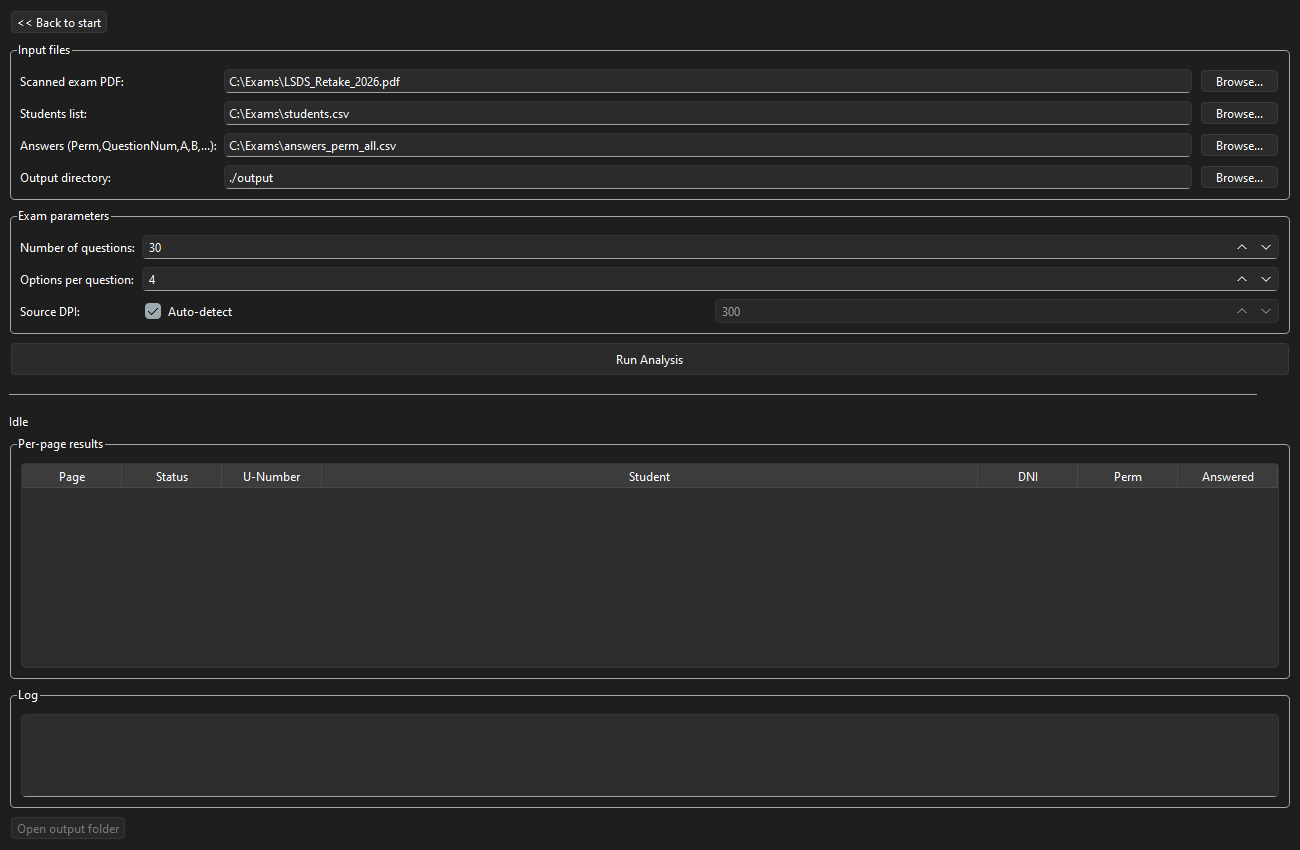
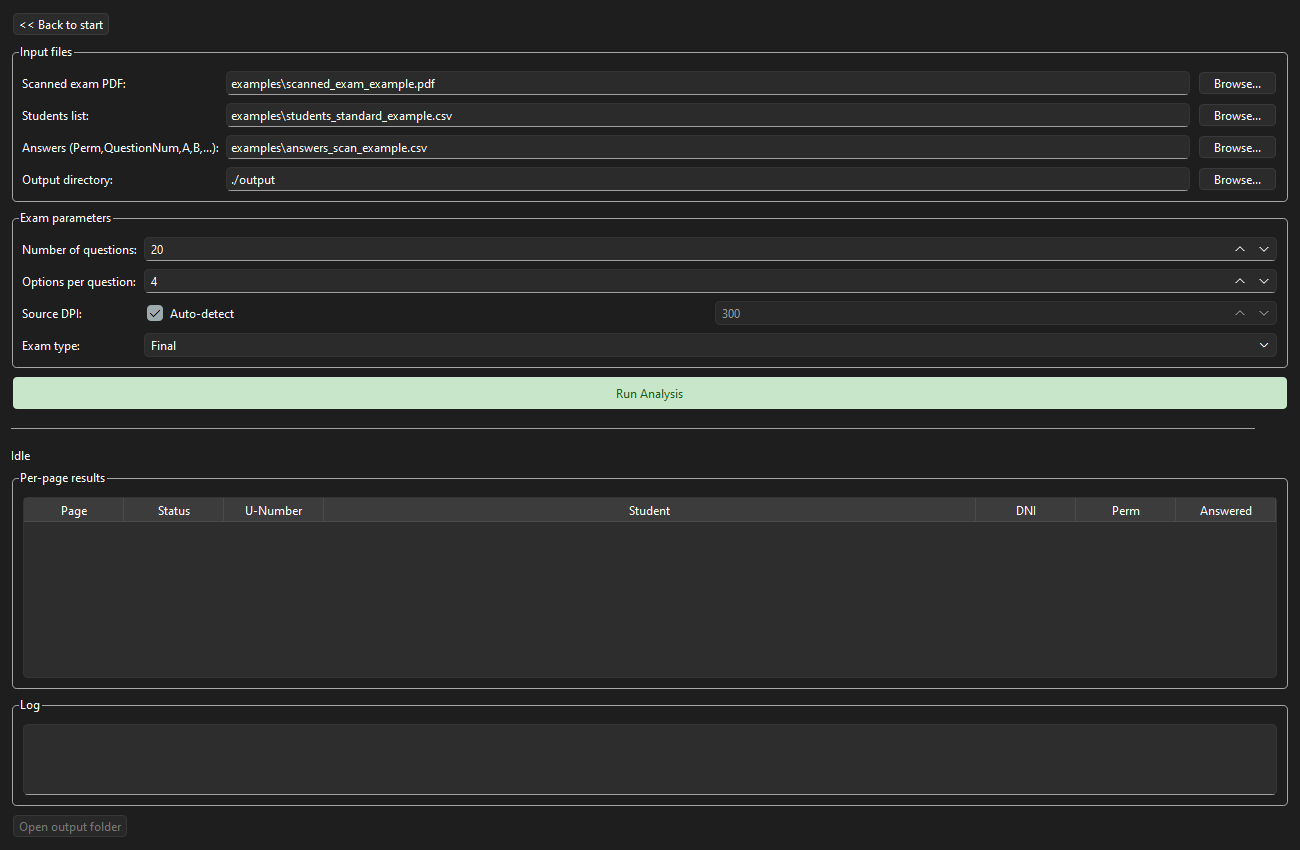
Regenerate 02-new-exam-form.png with the Exam type field
It predated the Exam type field (added in v1.5) and the Run Analysis
red/green colour-coding (v1.6/v1.7), so it no longer matched what
section 4 of MANUAL.md actually describes. Extended
tools/capture_manual_screenshots.py to fill the New exam form from the
synthetic examples/ files and capture it with Run Analysis green.

diff --git a/tools/capture_manual_screenshots.py b/tools/capture_manual_screenshots.py
@@ -11,6 +11,7 @@ Run from the project root:
 
 Writes into assets/screenshots/:
     01-start-screen.png
+    02-new-exam-form.png
     04-review-screen.png
     05-correction-panel.png
     06-expected-overlay.png
@@ -152,6 +153,21 @@ def main():
     app.processEvents()
     grab(start, os.path.join(OUT_DIR, "01-start-screen.png"))
     start.close()
+
+    # ----- 02: new exam form, all four required fields filled (incl. Exam type, v1.5) -----
+    from gui.new_exam_screen import NewExamScreen
+    new_exam = NewExamScreen()
+    new_exam.resize(1300, 850)
+    new_exam.pdf_row.setText(os.path.join("examples", "scanned_exam_example.pdf"))
+    new_exam.students_row.setText(os.path.join("examples", "students_standard_example.csv"))
+    new_exam.answers_row.setText(os.path.join("examples", "answers_scan_example.csv"))
+    new_exam.questions_spin.setValue(20)
+    new_exam.options_spin.setValue(4)
+    new_exam.exam_type_combo.setCurrentText("Final")
+    new_exam.show()
+    app.processEvents()
+    grab(new_exam, os.path.join(OUT_DIR, "02-new-exam-form.png"))
+    new_exam.close()
 
     from gui.review_screen import ReviewScreen
 

diff --git a/MANUAL.md b/MANUAL.md
@@ -844,21 +844,21 @@ hand if the scan is wrong.
 
 > All screenshots are captured programmatically (via `QWidget.grab()`,
 > driving the real app — not mockups) and saved to `assets/screenshots/`.
-> `01` and `04`–`10` are generated by
+> `01`, `02`, and `04`–`10` are generated by
 > [`tools/capture_manual_screenshots.py`](../tools/capture_manual_screenshots.py)
 > — `04`–`10` from
 > [`examples/scanned_exam_example.pdf`](../examples/README.md#the-scanned-exam-example)
-> (the invented "Albert Einstein" exam), `01` just from a fresh
-> `StartScreen()` so its version footer can never go stale again. Re-run
-> that script after a UI change (or a version bump) to regenerate all
-> eight at once. It needs a real (non-offscreen) Qt platform to render
-> text correctly, so run it interactively on a desktop session, not
-> headless CI.
+> (the invented "Albert Einstein" exam), `01`/`02` from a fresh
+> `StartScreen()`/`NewExamScreen()` (with that same example filled in) so
+> neither can drift out of date again. Re-run that script after a UI
+> change (or a version bump) to regenerate all nine at once. It needs a
+> real (non-offscreen) Qt platform to render text correctly, so run it
+> interactively on a desktop session, not headless CI.
 
 | File | Screen | What it shows | Status |
 | ------ | -------- | ----------- | ------ |
 | `01-start-screen.png` | Start | Full window at launch, both main buttons visible, footer showing the current version. | ✅ current (no PII) |
-| `02-new-exam-form.png` | New exam | Form with all four file fields filled in, before clicking Run. | ⬜ stale: predates the Exam type field (v1.5) |
+| `02-new-exam-form.png` | New exam | Form with all four required fields filled in (incl. **Exam type**, v1.5), **Run Analysis** green. | ✅ current (no PII) |
 | `03-analysis-running.png` | New exam | Mid-run: progress bar partially filled, several rows in the table. | ✅ current (no PII) |
 | `04-review-screen.png` | Review | Full window with Albert Einstein's page loaded, overlay **off**, Score column and search box visible. | ✅ synthetic data only |
 | `05-correction-panel.png` | Review | Right panel close-up: fields in order (U-Number, DNI, Group, Partial, Permutation, Exam type), Email field, answer grid visible. | ✅ synthetic data only |